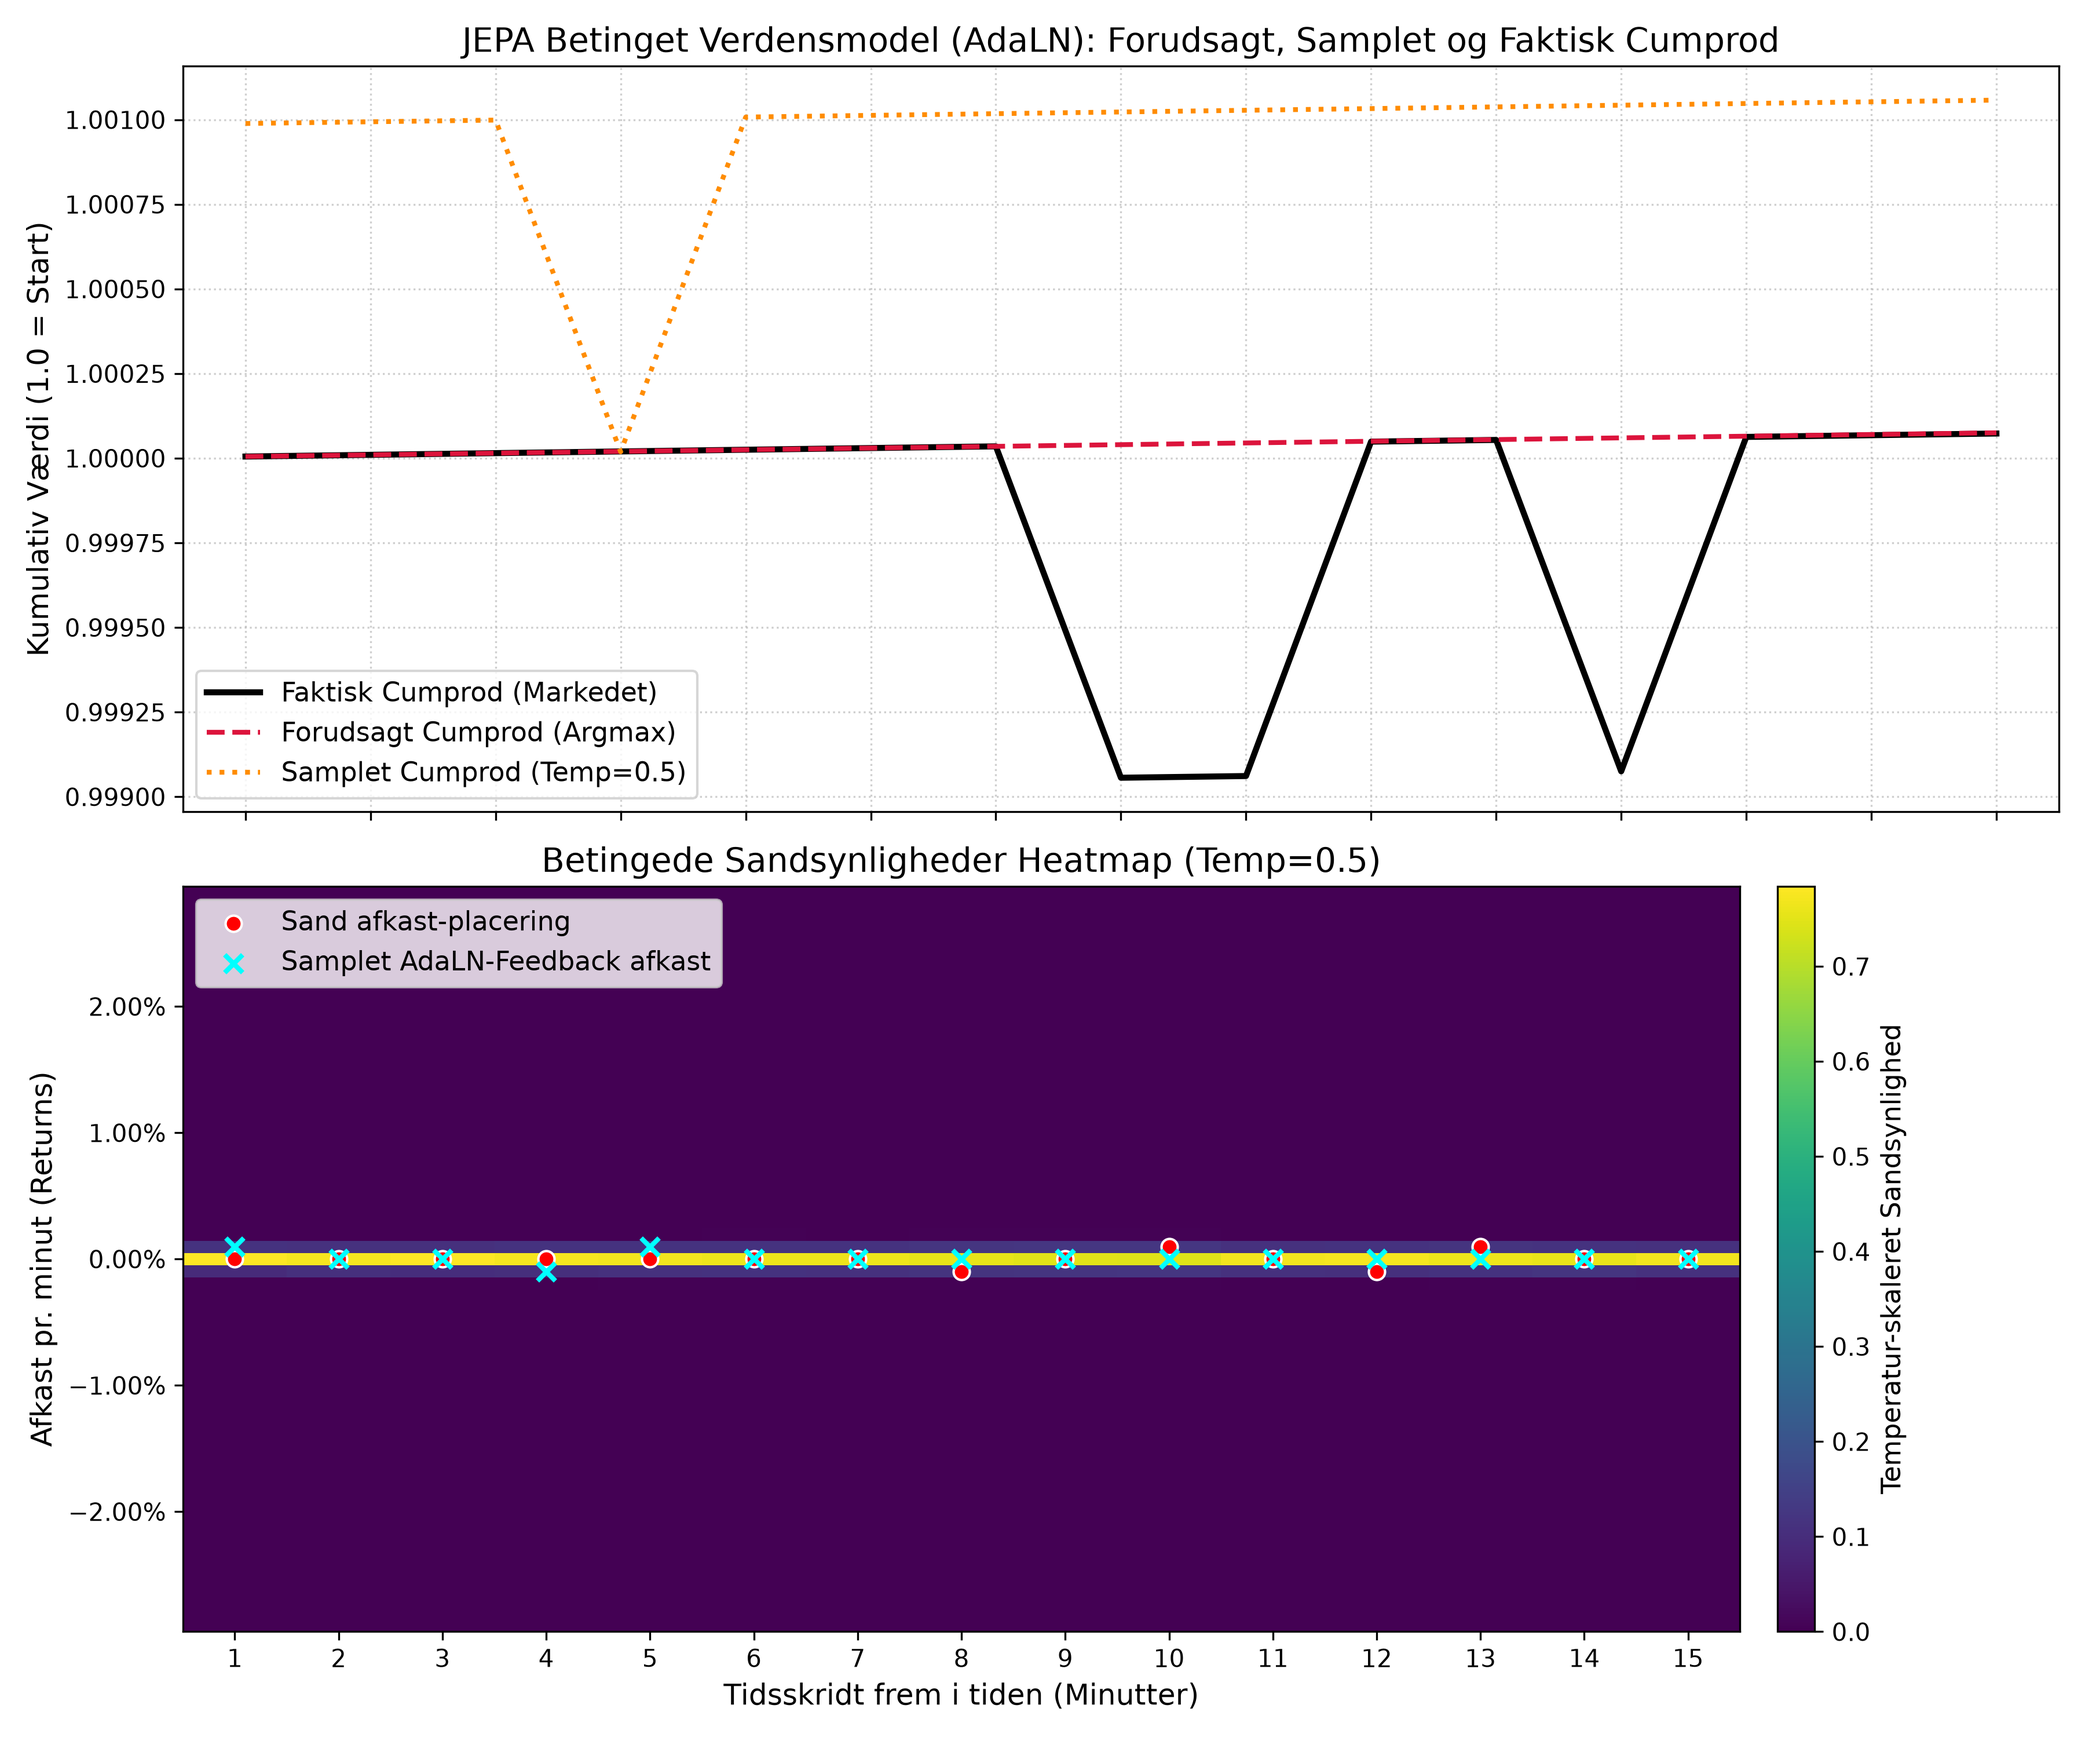
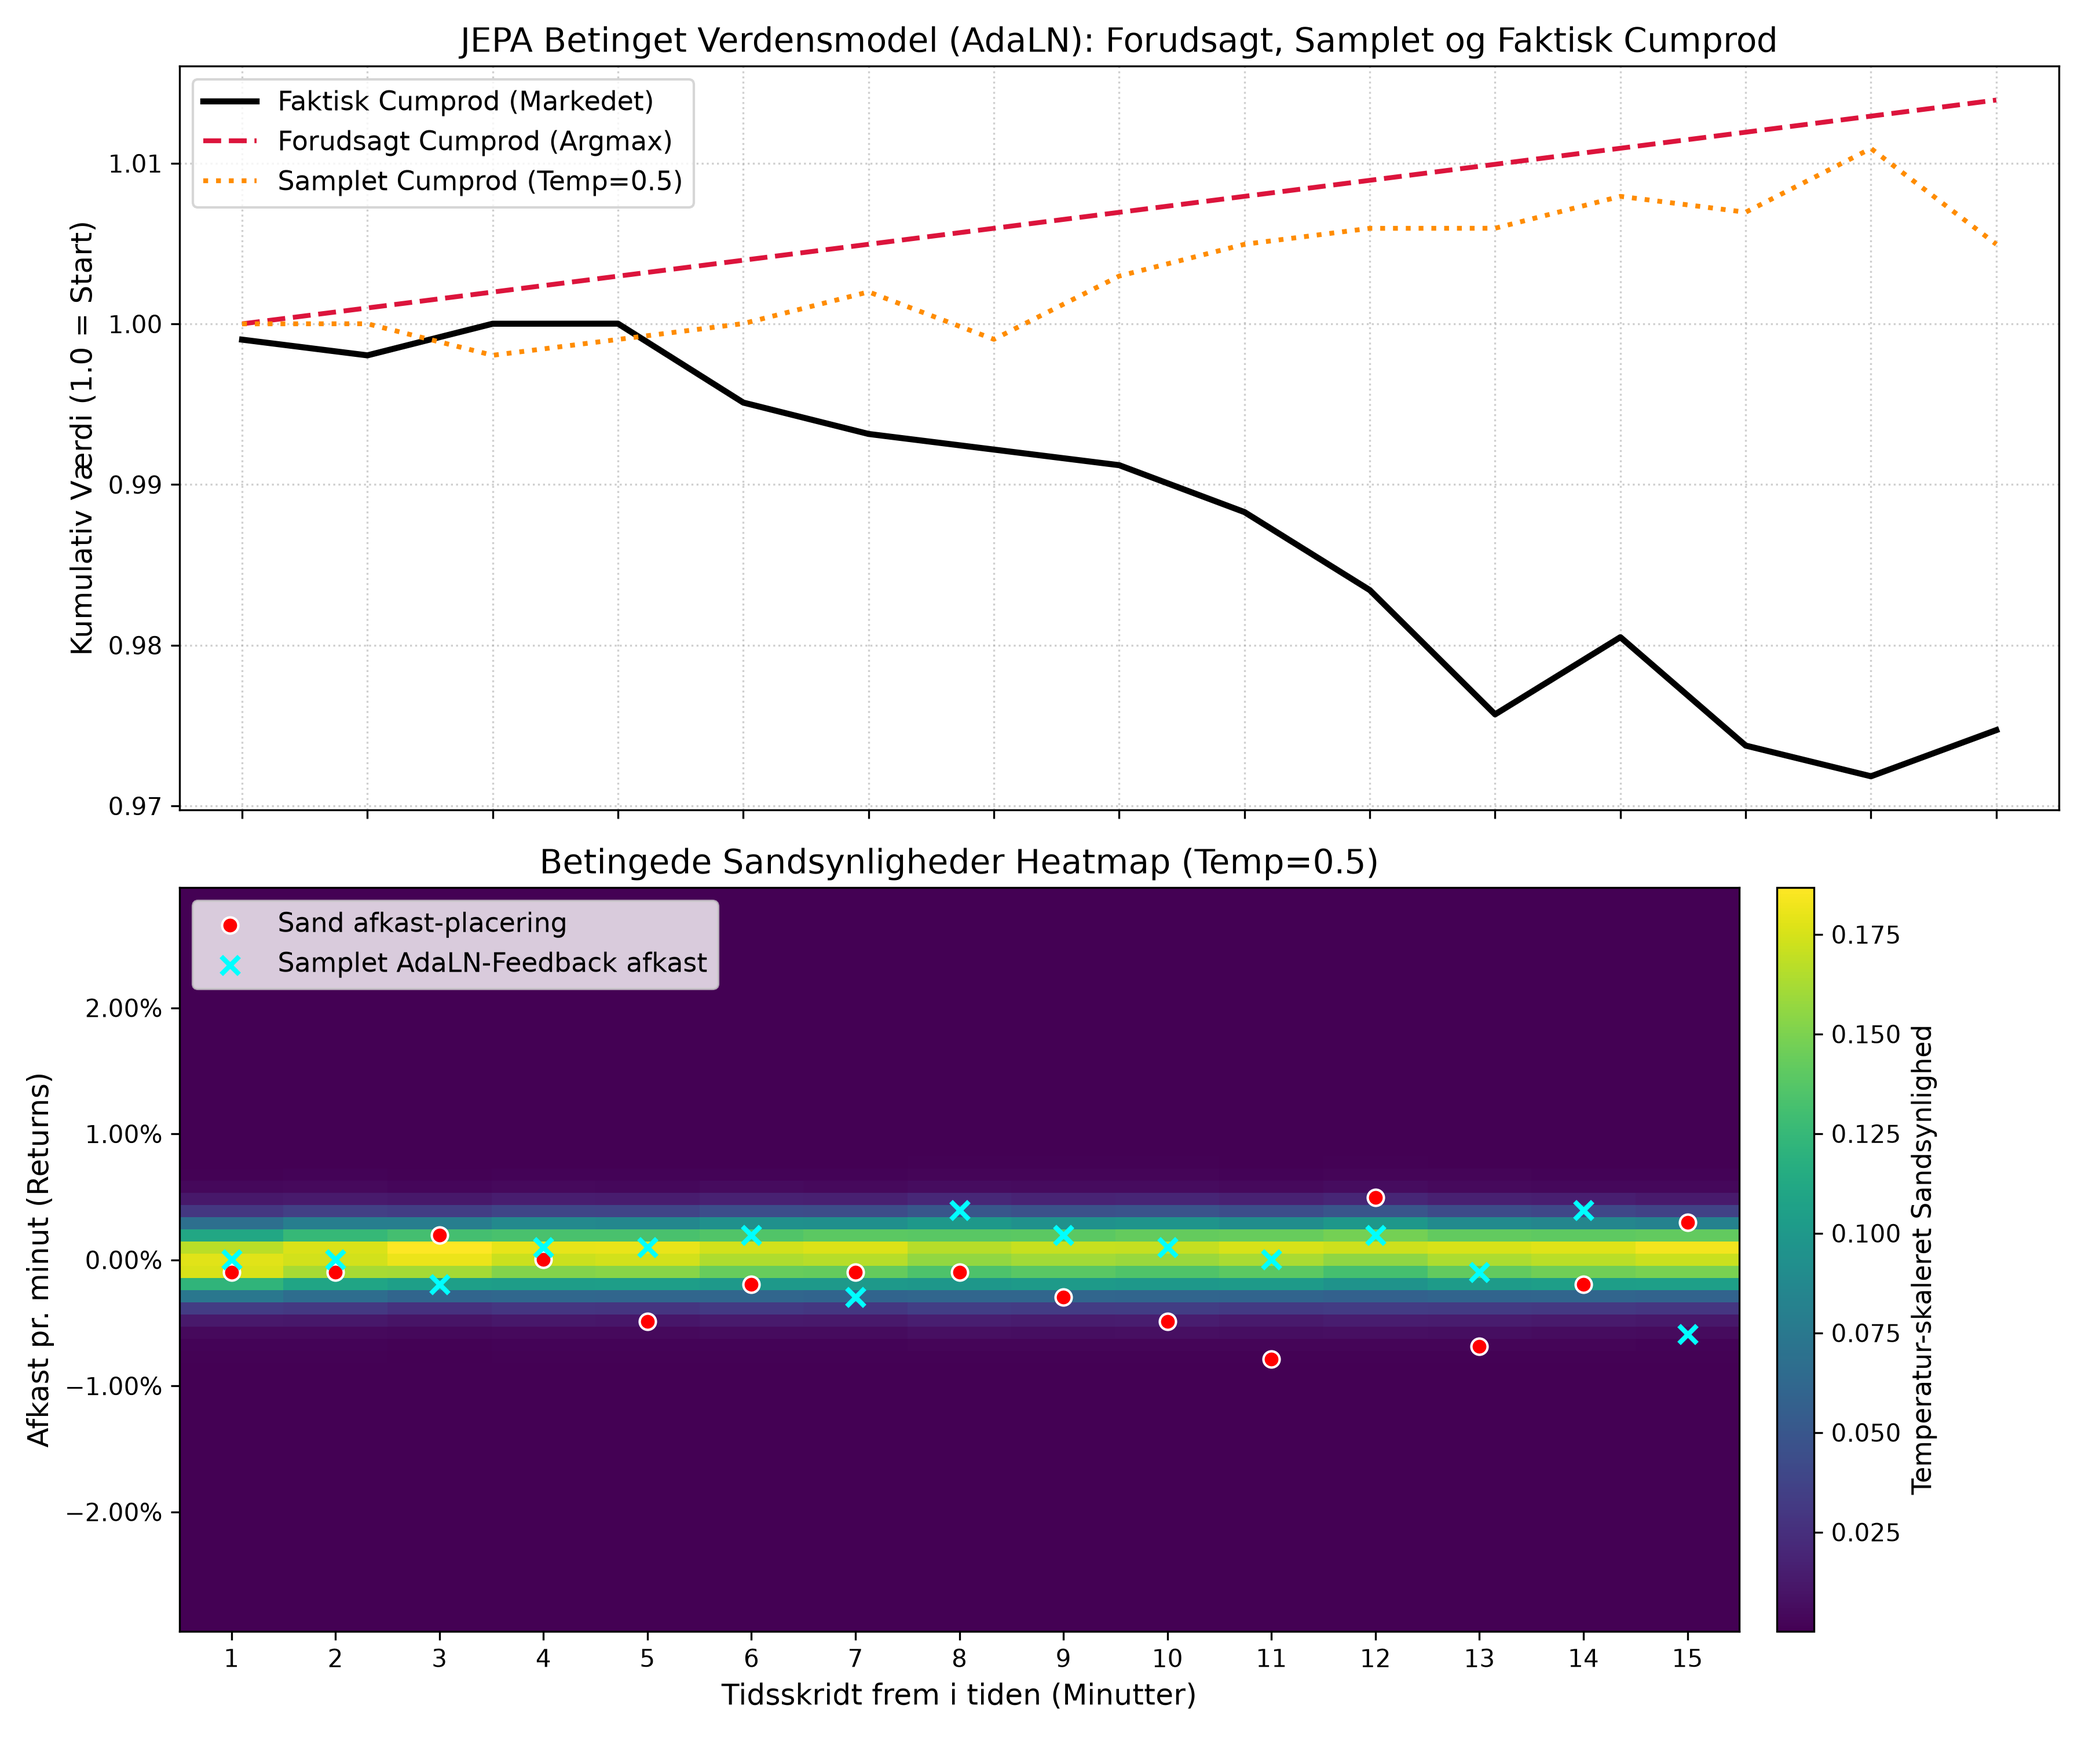
Made an optimal allocation strategy

diff --git a/src/actorcritic.py b/src/actorcritic.py
@@ -56,7 +56,8 @@ class ActorCritic(L.LightningModule):
         self.vf_coef = cfg['actorcritic']['vf_coef']       
         self.ppo_epochs = cfg['actorcritic']['ppo_epochs']   
         self.dream_horizon = cfg['actorcritic']['dream_horizon'] 
-        self.temperature = cfg['actorcritic']['start_temperature']
+        self.start_temperature = cfg['actorcritic']['start_temperature']
+        self.temperature = self.start_temperature
         self.min_temp = cfg['actorcritic']['min_temperature']
         self.temp_decay = cfg['actorcritic']['temperature_decay']
         self.com_v = cfg['actorcritic']['commission_value']
@@ -139,12 +140,15 @@ class ActorCritic(L.LightningModule):
         return dream_states, dream_returns, dream_actions, dream_old_log_probs, dream_values, dream_rewards
 
     def training_step(self, batch, batch_idx):
-        self.temperature = max(self.temp_decay * self.temperature, self.min_temp)
+        cur_epoch = self.current_epoch
+        self.temperature = max(self.temp_decay**cur_epoch * self.start_temperature, self.min_temp)
         # Hent din fælles optimizer
         opt = self.optimizers()
         
         X, y, Ret = batch['sample'], batch['target'], batch['return']
         B, Seq, _ = Ret.shape
+
+        self.jepa.cuda() 
         
         with torch.no_grad():
             Z_start = self.jepa.encode(X) # [B, Seq, d_model]
@@ -162,6 +166,9 @@ class ActorCritic(L.LightningModule):
         dream_old_log_probs, 
         dream_values, 
         dream_rewards) = self.dream_episodes(Z_history, Ret_history, Action_history)
+
+        self.jepa.cpu()
+        torch.cuda.empty_cache()
 
         # --- SKRIDT 3: BEREGN RETURNAFKAST OG ADVANTAGES (GAE) ---
         advantages = torch.zeros_like(dream_rewards)
@@ -215,7 +222,7 @@ class ActorCritic(L.LightningModule):
             
             # 3. FIX: Nu har dream_actions_flat OGSÅ formen [B * 15] -> Ingen fejl!
             new_log_probs = dist.log_prob(dream_actions_flat)
-            #entropy = dist.entropy().mean()
+            entropy = dist.entropy().mean()
 
             # PPO Ratio
             ratios = torch.exp(new_log_probs - dream_old_log_probs_flat)
@@ -249,7 +256,7 @@ class ActorCritic(L.LightningModule):
         self.log('ppo/total_loss', total_loss)
         self.log('ppo/actor_loss', actor_loss)
         self.log('ppo/critic_loss', critic_loss)
-        #self.log('ppo/entropy', entropy)
+        self.log('ppo/entropy', entropy)
         self.log('ppo/mean_reward', dream_rewards.mean(), prog_bar=True)
         self.log('ppo/mean_value', dream_values.mean())
         self.log('ppo/dream_temperature', self.temperature)
@@ -257,6 +264,8 @@ class ActorCritic(L.LightningModule):
     def validation_step(self, batch, batch_idx):        
         X, y, Ret = batch['sample'], batch['target'], batch['return']
         B, Seq, _ = Ret.shape
+
+        self.jepa.cuda() 
         
         with torch.no_grad():
             Z_start = self.jepa.encode(X) # [B, Seq, d_model]
@@ -275,6 +284,9 @@ class ActorCritic(L.LightningModule):
          dream_values, 
          dream_rewards) = self.dream_episodes(Z_history_dream, Ret_history_dream, Action_history_dream)
 
+        self.jepa.cpu()
+        torch.cuda.empty_cache()
+        
         # Kumulativt afkast for drømme-episoden (exp() ophæver log1p())
         dream_reward = dream_rewards.sum(dim=-1).exp().mean(dim=-1)
         self.log('ppo/val_dream_reward', dream_reward, on_epoch=True, prog_bar=True)

diff --git a/src/test.py b/src/test.py
@@ -1,12 +1,57 @@
 import torch
 import torch.nn.functional as F
+import numpy as np
+import matplotlib.pyplot as plt
+
+def delta_equity(x, p, c):
+    x_H = x[1:]
+    x_d = torch.abs(torch.diff(x))
+
+    E = x_H * p - c * x_d + 1.
+
+    return E
+
+def equity(x, p, c):
+    dE = delta_equity(x, p, c)
+    E = torch.cumprod(dE, dim = -1)
+    return E, E[-1]
+
+def loss_fn(x, p, c):
+    return -torch.sum(torch.log(delta_equity(x, p, c) + 1e-6))
+
+def optimal_allocation(p, c, x0 = 0.0, lr = 0.01, steps = 1_000):
+    h = len(p)
+    x0 = torch.tensor([x0], requires_grad=False)
+    u_trainable = torch.zeros_like(p, requires_grad=True)
+    optimizer = torch.optim.Adam([u_trainable], lr=lr)
+
+    for step in range(steps):
+        optimizer.zero_grad()
+        x_trainable = torch.tanh(u_trainable)
+        
+        x_full = torch.cat((x0, x_trainable))
+        loss = loss_fn(x_full, p, c)
+
+        loss.backward()
+        optimizer.step()
+    
+    x = torch.cat((x0, torch.tanh(u_trainable)))
+
+    return x
 
 if __name__ == '__main__':
-    X = torch.rand((64, 15))
-    s = X.sum(dim=-1)
-    print(s)
-    print(s.shape)
-    a = s.mean(dim=-1)
-    print(a)
-    print(a.shape)
+    torch.manual_seed(42)
 
+    h = 15
+    sigma = 0.01
+    c = 0.0005
+    
+    p = sigma * torch.randn(h)
+    x = optimal_allocation(p, c)
+
+    print('x:', x[1:].detach().numpy())
+    print('p:', p.numpy())
+
+    E, E_h = equity(x, p, c)
+    print('E:', E.detach().numpy())
+    print('E_h: ', float(E_h.detach()))
